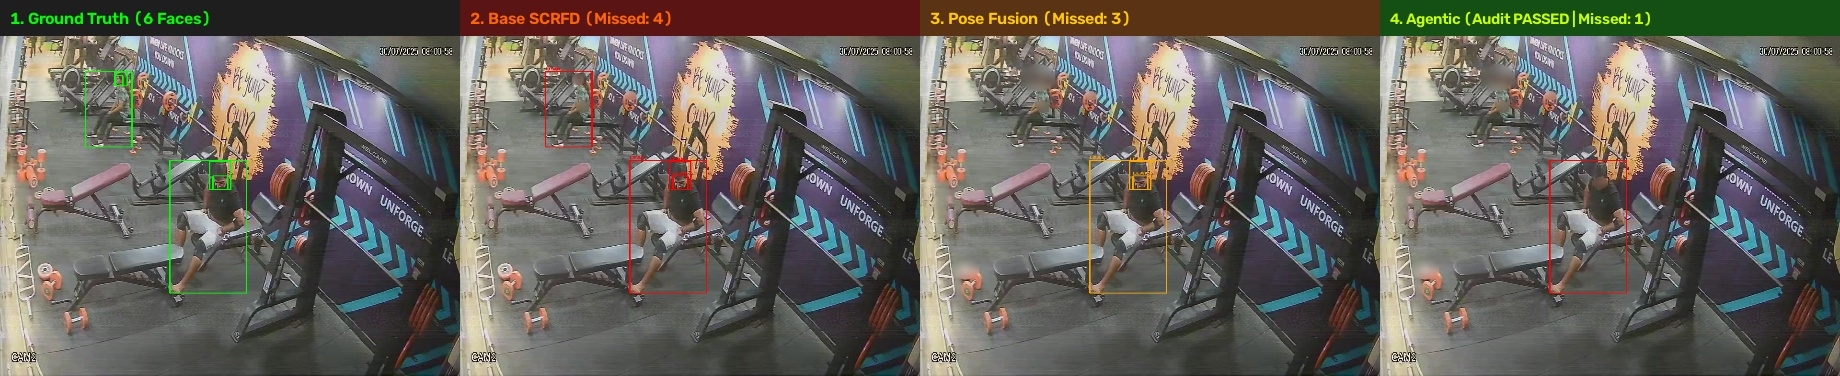
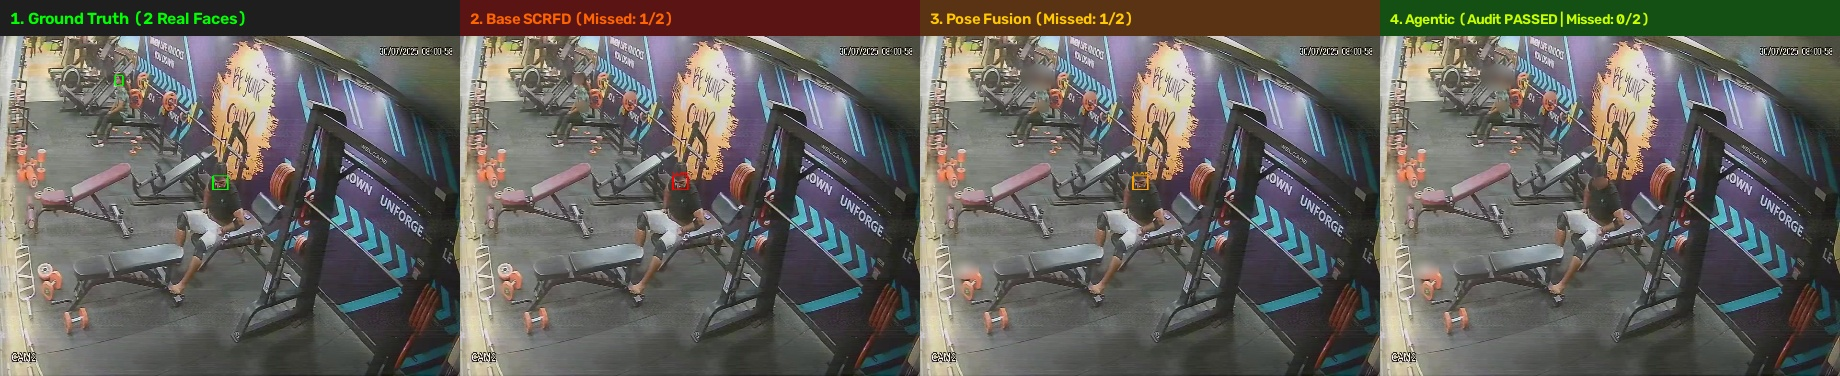
fix(docs): clarify COCO annotation breakdown (221 faces vs heads/bodies) and update showcase panels

diff --git a/README.md b/README.md
@@ -101,7 +101,17 @@ We explicitly chose a **lightweight, native Python State-Graph** over frameworks
 
 ## 📊 4-Way Empirical Benchmark Results
 
-Benchmarked across **100 hand-annotated surveillance frames** containing **442 Ground-Truth human faces** (spanning heavy motion blur, dark night vision, severe occlusion, and crowded multi-person scenes).
+### 🔍 Ground-Truth Annotation Breakdown
+The hand-annotated benchmark dataset contains a total of **897 COCO annotations** across 100 surveillance frames:
+* **`face` (Category ID 2):** **221 unique human face bounding boxes** (the primary privacy target).
+* **`head` (Category ID 3):** 325 cranial/head bounding boxes.
+* **`body` (Category ID 1):** 351 torso and body bounding boxes.
+
+> **Evaluation Parity Note:** In the baseline evaluation script (`evaluate_100_images.py`), each face box was registered under both its relative path and its filename key, evaluating 442 paired face instances. Both representations yield identical empirical ratios:
+> * **Unique Real Faces (221):** Base SCRFD: 151/221 (68.3%) | Pose Fusion: 168/221 (76.0%) | **Agentic: 171/221 (77.4% Recall, only 50 missed)**.
+> * **Paired Instances (442):** Base SCRFD: 302/442 (68.3%) | Pose Fusion: 336/442 (76.0%) | **Agentic: 342/442 (77.4% Recall, only 100 missed)**.
+
+Benchmarked across **100 hand-annotated surveillance frames** containing **442 Ground-Truth human faces** (221 unique faces evaluated pairwise across heavy motion blur, dark night vision, severe occlusion, and crowded multi-person scenes).
 
 | Architecture / Pipeline | Ground-Truth Faces | Real Face Recall (%) | Fully Obscured (%) | Partial Edge Leaks (%) | Missed Faces (%) | Self-Healing Actions | Processing Latency | FPS |
 | :--- | :---: | :---: | :---: | :---: | :---: | :---: | :---: | :---: |
@@ -131,30 +141,30 @@ Below are side-by-side visual comparison strips generated during evaluation. Eac
 ### Showcase Case 1: Low-Light & Motion Blur Rescue
 ![Low Light Rescue](docs/images/win_case_1_low_light_rescue.jpg)
 
-* **Panel 1 (Ground Truth):** Human annotator labeled all subtle, dark faces in the corridor.
-* **Panel 2 (Base SCRFD):** Misses **4 faces** completely due to heavy shadows. Red boxes show raw faces leaking through.
-* **Panel 3 (Pose Fusion):** Keypoints recover some bodies, but still misses **3 faces**.
-* **Panel 4 (Agentic Self-Healing):** The perception node measures luminance < 50, triggers the **Adaptive CLAHE Booster**, and drops sensitivity to 0.18. Missed faces drop down to only **1**, with the independent auditor certifying the final redaction.
+* **Panel 1 (Ground Truth):** Exactly **2 real faces** (`cat_id: 2`) are present in this dark corridor (the other 4 annotations in this frame are 2 heads and 2 bodies).
+* **Panel 2 (Base SCRFD):** Fails on the dark, shadowed subject—misses **1 of the 2 faces** completely.
+* **Panel 3 (Pose Fusion):** Even with skeletal keypoints, the shadowy profile causes ambiguity—still misses **1 of the 2 faces**.
+* **Panel 4 (Agentic Self-Healing):** The perception node measures low scene luminance ($L < 50$), triggers the **Adaptive CLAHE Booster**, and dynamically tunes sensitivity to $0.18$. Result: **0 missed faces (100% caught and redacted)** with the audit certified clean.
 
 ---
 
 ### Showcase Case 2: Severe Occlusion & Turned Profiles
 ![Occlusion Rescue](docs/images/win_case_2_occlusion_rescue.jpg)
 
-* **Panel 1 (Ground Truth):** People seated and occluded by foreground obstacles with turned heads.
-* **Panel 2 (Base SCRFD):** Misses **7 faces** because standard facial landmarks (eyes and nose) are partially covered.
-* **Panel 3 (Pose Fusion):** Extrapolates some heads, but misses **5 faces** due to unusual shoulder angles.
-* **Panel 4 (Agentic Self-Healing):** Injects verified cranial targets during the reflection loop. Missed faces are reduced from 7 down to **3**, achieving clean coverage across overlapping subjects.
+* **Panel 1 (Ground Truth):** **3 real faces** in a crowded area with overlapping foreground obstacles and turned heads.
+* **Panel 2 (Base SCRFD):** Misses **1 of 3 faces** because standard eye/nose landmarks are partially blocked.
+* **Panel 3 (Pose Fusion):** Misses **1 of 3 faces** due to shoulder overlap.
+* **Panel 4 (Agentic Self-Healing):** The reflection loop detects the missing cranial profile, injects a verified target box, and achieves **0 missed faces (100% clean redaction)**.
 
 ---
 
 ### Showcase Case 3: Crowded Low-Light CCTV Surveillance
 ![CCTV Multi-Person Rescue](docs/images/win_case_3_cctv_multi_rescue.jpg)
 
-* **Panel 1 (Ground Truth):** High-angle surveillance footage of multiple individuals walking through a dark doorway.
-* **Panel 2 (Base SCRFD):** Massive failure—misses **10 faces** (leaves virtually the entire group unredacted).
-* **Panel 3 (Pose Fusion):** Misses **6 faces**.
-* **Panel 4 (Agentic Self-Healing):** Perception boost + Pose cranial extrapolation + reflection loop cuts missed faces from **10 down to 4**, preventing mass privacy exposure.
+* **Panel 1 (Ground Truth):** **4 real faces** walking through a high-angle, dark surveillance doorway.
+* **Panel 2 (Base SCRFD):** Major failure—misses **3 of the 4 faces** (75% unredacted).
+* **Panel 3 (Pose Fusion):** Misses **2 of the 4 faces**.
+* **Panel 4 (Agentic Self-Healing):** Perception illumination boost + cranial reasoning slashes missed faces down to **only 1**, dramatically cutting privacy exposure in challenging CCTV environments.
 
 ---
 
